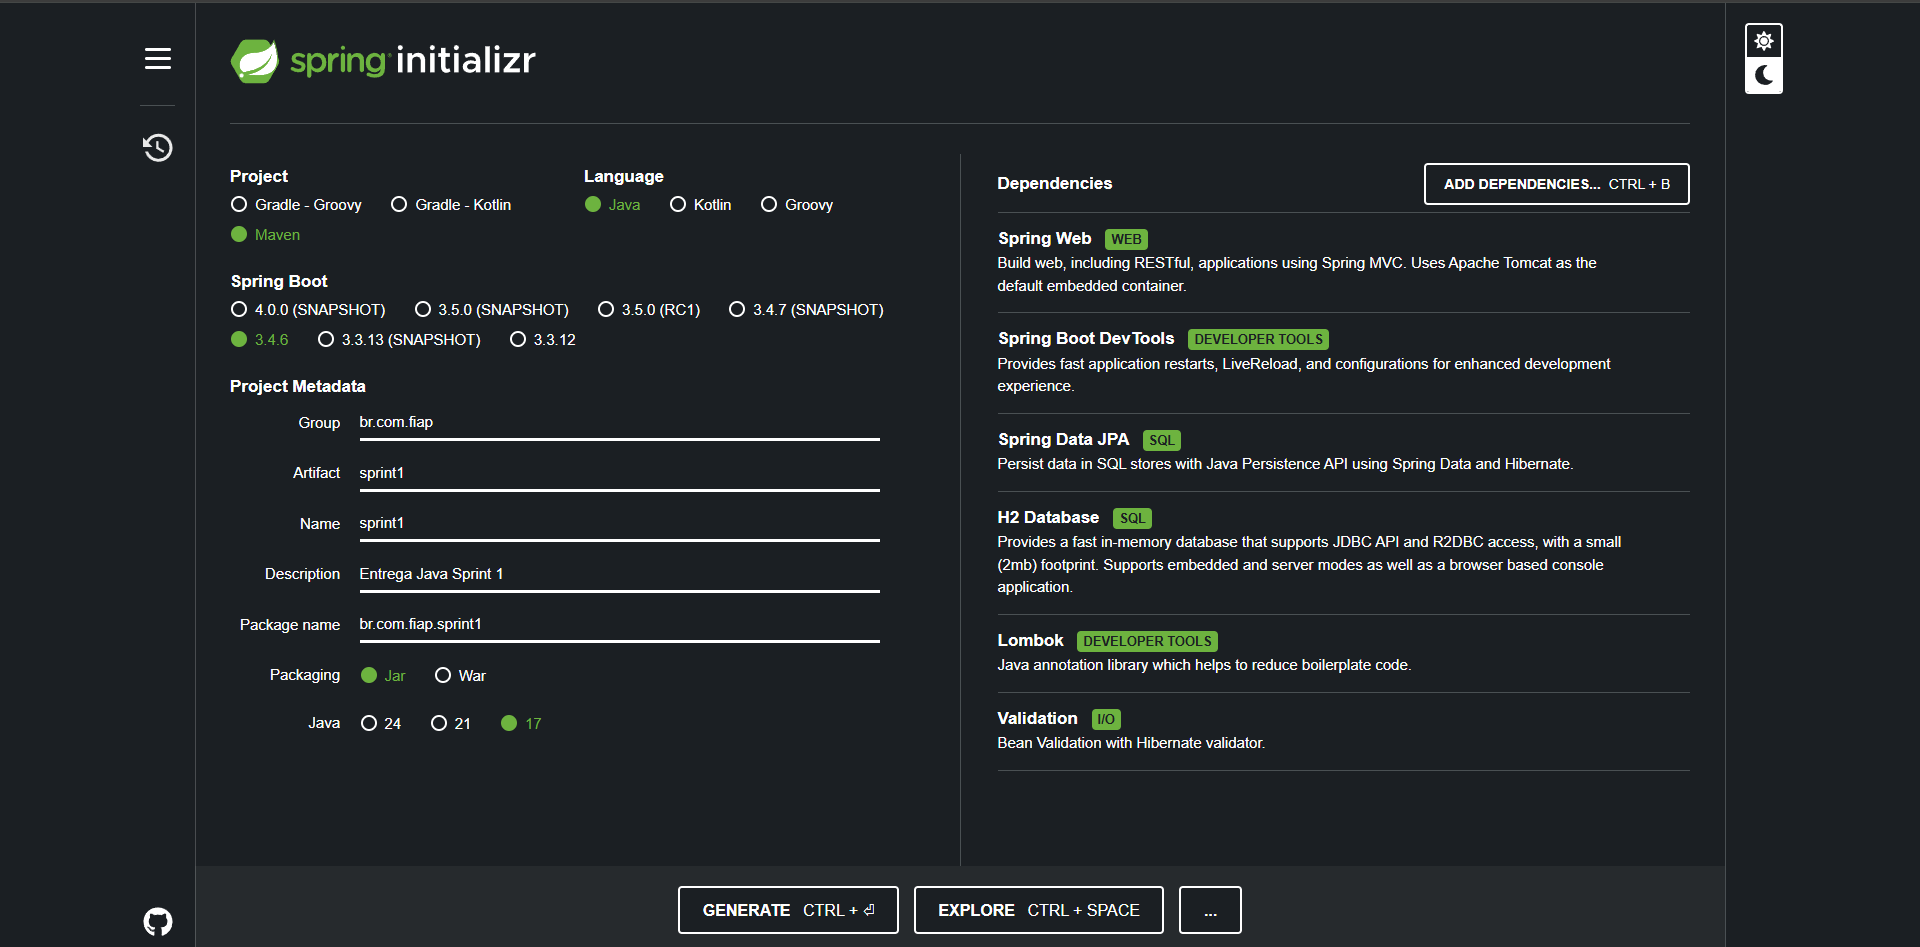
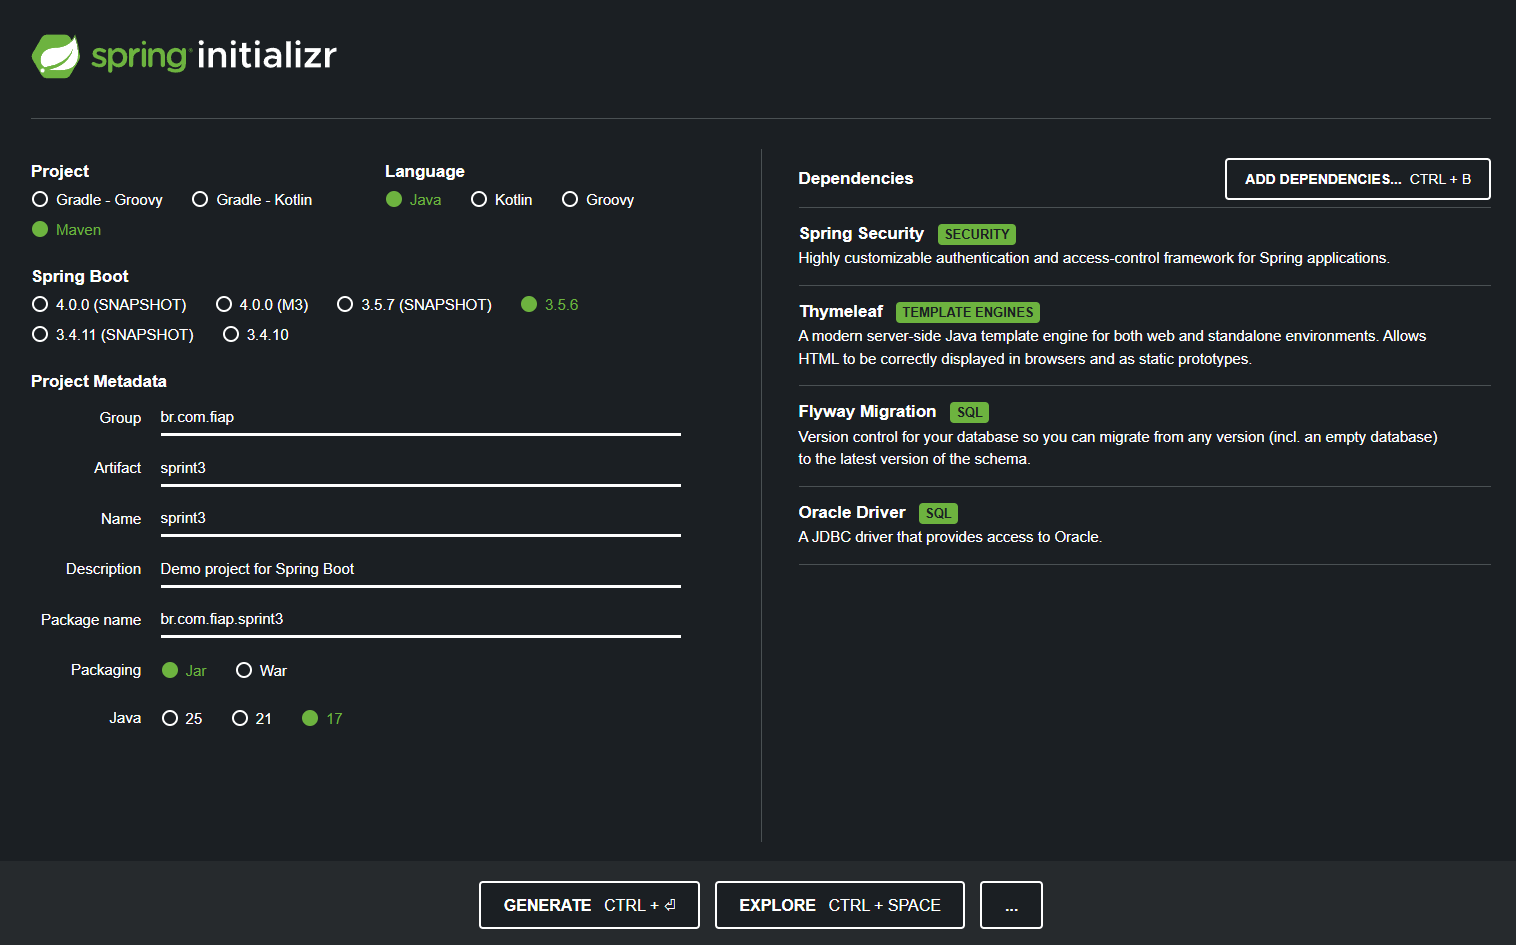
Readme

diff --git a/Readme.md b/Readme.md
@@ -1,32 +1,63 @@
 # MottuMap
  
-MottuMap é um projeto desenvolvido com visão computacional e leitura RFID para facilitar a localização e gestão das motos nos páitos da Mottu.
+MottuMap é um projeto que utiliza visão computacional e tecnologia RFID para facilitar a localização e a gestão das motos nos pátios da Mottu.
+ 
+Cada moto será equipada com uma etiqueta RFID, que ao ser lida por sensores instalados nas zonas do pátio, gera um novo registro no histórico de movimentação da moto. Isso permite rastrear em tempo real a zona em que a moto está localizada.
+ 
+Além disso, para uma identificação ainda mais precisa, o sistema conta com câmeras de visão computacional que mapeiam as vagas dentro de cada zona, permitindo associar a moto a uma posição específica (vaga) dentro da zona.
+ 
+Com isso, será possível acompanhar o histórico de movimentação de cada moto, sabendo por onde ela passou e onde está atualmente.
+
+**Esta API desenvolvida com Spring Boot conta com**: um sistema de Login e Logout, usuários salvos no banco, gerenciamento de entidades pela Web, versionamento do banco de dados e mais tecnologias, acompanhe a documentação completa abaixo.
  
 ---
  
-**Descrição do Projeto**
- 
-Cada moto será equipada com uma etiqueta RFID, que ao ser lida por sensores instalados nas zonas do pátio, gera um novo registro no histórico de movimentação da moto. Isso permite rastrear em tempo real a zona atual onde a moto está localizada.
- 
-Além disso, para uma identificação ainda mais precisa, o sistema conta com câmeras de visão computacional que mapeiam as vagas dentro de cada zona,  permitindo associar a moto a uma posição específica (vaga) dentro da zona.
- 
-Com isso, é possível acompanhar o histórico de movimentação de cada moto, sabendo por onde ela passou e onde está atualmente.
- 
+## Interface Web
+
+Veja abaixo como ficou o resultado das telas para gerenciar cada uma das entidades (Cadastro e Listagem).
+- É possível editar ou excluir registros. 
+- O formulário de cadastro/edição conta com validação nos campos.
+
+![](images/cadastro.png)
+![](images/listagem.png)
+
 ---
- 
+
+## Acesso / Usuários
+
+Foram definidos dois usuários, assim que a aplicação inicia, através de Migrations com **Flyway**:
+- **ADMIN:** tem permissão pra fazer o CRUD completo e acessar todas as telas do sistema.
+- **USER:** só pode acessar páginas de listagem e fazer requisições do tipo GET. 
+
+Para acessar as telas, basta logar com um desses usuários:
+| Email             | Senha     | Role (permissão)  |
+| ----------------- | --------- | ----------------- |
+| admin@mottu.com   | 123456    | ADMIN             |
+| user@mottu.com    | 123456    | USER              |
+
+![](images/login.png)
+
+Para acessar via Postman, coloque o Email e Senha na sessão de Basic Auth antes de cada requisição:
+
+![](images/loginPostman.png)
+
+**Obs:** todos os endpoints são acessados via **`localhost:8080`**
+
+---
+
 ## Configuração do Spring Initializr (dependências adicionadas para a Sprint 3)
-![Imagem do projeto](imagem_git/projeto.png)
+![Imagem do projeto](images/springinitializr.png)
  
 **Dependências:**
-- Spring Web: Por se tratar de uma API Rest;
-- Spring Boot DevTools: Recursos que ajudam na produtividade;
-- Spring Data JPA: Acessar e manipular bancos de dados;
-- H2 Database: Banco de dados em memória;
-- Lombok: Gerar automaticamente códigos repetitivos (mais otimizado);
-- Validation: Validações com Bean Validation usadas nos DTOs.
-- Thymeleaf: Renderização de página HTML no navegador
-- Spring Security: Autenticação e acesso aos endpoints
-- Flyway: Versionamento do banco de dados
+- Spring Web: Por se tratar de uma API Rest.
+- Spring Boot DevTools: Recursos que ajudam na produtividade.
+- Spring Data JPA: Acessar e manipular bancos de dados.
+- Lombok: Gerar automaticamente códigos repetitivos (mais otimizado).
+- Validation: Biblioteca de validação usada nos DTOs.
+- Oracle Driver: Banco de dados Oracle.
+- Thymeleaf: Renderização de página HTML no navegador.
+- Spring Security: Autenticação e acesso aos endpoints.
+- Flyway: Versionamento do banco de dados.
  
 **Estrutura do Banco de Dados:**
 ![](images/banco.png)
@@ -37,7 +68,7 @@ Com isso, é possível acompanhar o histórico de movimentação de cada moto, s
  
 ## Pacotes utilizados e suas funções
  
-### Modelo MVC
+### Arquitetura: MVC
  
 **1. Model:**
 - Entity → Mapeia tabelas e relacionamentos no banco.
@@ -48,7 +79,7 @@ Com isso, é possível acompanhar o histórico de movimentação de cada moto, s
  
 **2. View:**
 - Static → CSS, JS e imagens
-- Templates → Fragmenos e Páginas HTML
+- Templates → Fragmentos e Páginas HTML
  
 **3. Controller:**
 - Controller HTTP → Expõe endpoints REST e manipula requisições/respostas.
@@ -119,11 +150,11 @@ Com isso, é possível acompanhar o histórico de movimentação de cada moto, s
  
 | Método | URI                       | Descrição                                       | View retornada            |
 |--------|---------------------------|-------------------------------------------------|---------------------------|
-| GET    | `/web/patios/listar`      | Lista todas os patios                           | `patio/patio-lista`      |
-| GET    | `/web/patios/salvar`  | Exibe o formulário de cadastro/edição           | `patio/patio-form`        |
+| GET    | `/web/patios/listar`      | Lista todos os patios                           | `patio/patio-lista`      |
+| GET    | `/web/patios/cadastrar`  | Exibe o formulário de cadastro/edição           | `patio/patio-form`        |
 | GET    | `/web/patios/editar/{id}` | Exibe o formulário preenchido para edição       | `patio/patio-form`        |
-| POST   | `/web/patios/salvar`      | Cadastra patio (novo ou edição) e redireciona      | Redirect → `/listar`      |
-| GET    | `/web/patios/excluir/{id}`| Exclui patio e redireciona para listagem        | Redirect → `/listar`      |
+| POST   | `/web/patios/salvar`      | Cadastra pátio (novo ou edição) e redireciona      | Redirect → `/listar`      |
+| GET    | `/web/patios/excluir/{id}`| Exclui pátio e redireciona para listagem        | Redirect → `/listar`      |
  
 **2. Zona:**
  
@@ -150,22 +181,22 @@ Com isso, é possível acompanhar o histórico de movimentação de cada moto, s
  
 | Método | URI                       | Descrição                                       | View retornada            |
 |--------|---------------------------|-------------------------------------------------|---------------------------|
-| GET    | `/web/sensores/listar`      | Lista todas os sensores                           | `sensor/sensor-lista`      |
+| GET    | `/web/sensores/listar`      | Listar todos os sensores                           | `sensor/sensor-lista`      |
 | GET    | `/web/sensores/cadastrar`  | Exibe o formulário de cadastro/edição           | `sensor/sensor-form`        |
 | GET    | `/web/sensores/editar/{id}` | Exibe o formulário preenchido para edição       | `sensor/sensor-form`        |
 | POST   | `/web/sensores/salvar`      | Cadastra sensores (novo ou edição) e redireciona      | Redirect → `/listar`      |
-| GET    | `/web/sensores/excluir/{id}`| Exclui patsensoresio e redireciona para listagem        | Redirect → `/listar`      |
+| GET    | `/web/sensores/excluir/{id}`| Exclui sensor e redireciona para listagem        | Redirect → `/listar`      |
  
  
 **5. Historico:**
  
 | Método | URI                       | Descrição                                       | View retornada            |
 |--------|---------------------------|-------------------------------------------------|---------------------------|
-| GET    | `/web/historicos/listar`      | Lista todas os historicos                           | `historico/historico-lista`      |
+| GET    | `/web/historicos/listar`      | Lista todos os historicos                           | `historico/historico-lista`      |
 | GET    | `/web/historicos/cadastrar`  | Exibe o formulário de cadastro/edição           | `historico/historico-form`        |
 | GET    | `/web/historicos/editar/{id}` | Exibe o formulário preenchido para edição       | `historico/historico-form`        |
-| POST   | `/web/historicos/salvar`      | Cadastra historico (novo ou edição) e redireciona      | Redirect → `/listar`      |
-| GET    | `/web/historicos/excluir/{id}`| Exclui patio e redireciona para listagem        | Redirect → `/listar`      |
+| POST   | `/web/historicos/salvar`      | Cadastra histórico (novo ou edição) e redireciona      | Redirect → `/listar`      |
+| GET    | `/web/historicos/excluir/{id}`| Exclui histórico e redireciona para listagem        | Redirect → `/listar`      |
  
  
  
@@ -216,7 +247,7 @@ Com isso, é possível acompanhar o histórico de movimentação de cada moto, s
   "posicao": 2,
   "motoId": 2,
   "zonaId": 1,
-  "sensorId": 3
+  "sensorId": 2
 }
 ````
  
@@ -227,8 +258,9 @@ Com isso, é possível acompanhar o histórico de movimentação de cada moto, s
 1. Faça o clone desse repositório (```git clone https://github.com/eduardogdias/java_sprint3.git```);
 2. Tenha pelo menos o Java 17 (o projeto foi desenvolvido usando essa versão);
 3. Abra ele em sua IDE de preferência;
-4. Dê um Run na classe "Sprint1Application";
-5. Teste as requisições no Postman/Insomnia.
+4. Coloque as credenciais do Oracle (usuário e senha) no application.properties;
+5. Dê um Run na classe "Sprint3Application.java";
+6. Teste as requisições no Postman/Insomnia ou acessando via Web pelo `localhost:8080`.
  
 ---
  
@@ -238,3 +270,6 @@ Com isso, é possível acompanhar o histórico de movimentação de cada moto, s
  
 ---
  
+## Contato
+
+Para dúvidas, melhorias ou sugestões relacionadas ao projeto, entre em contato :)
